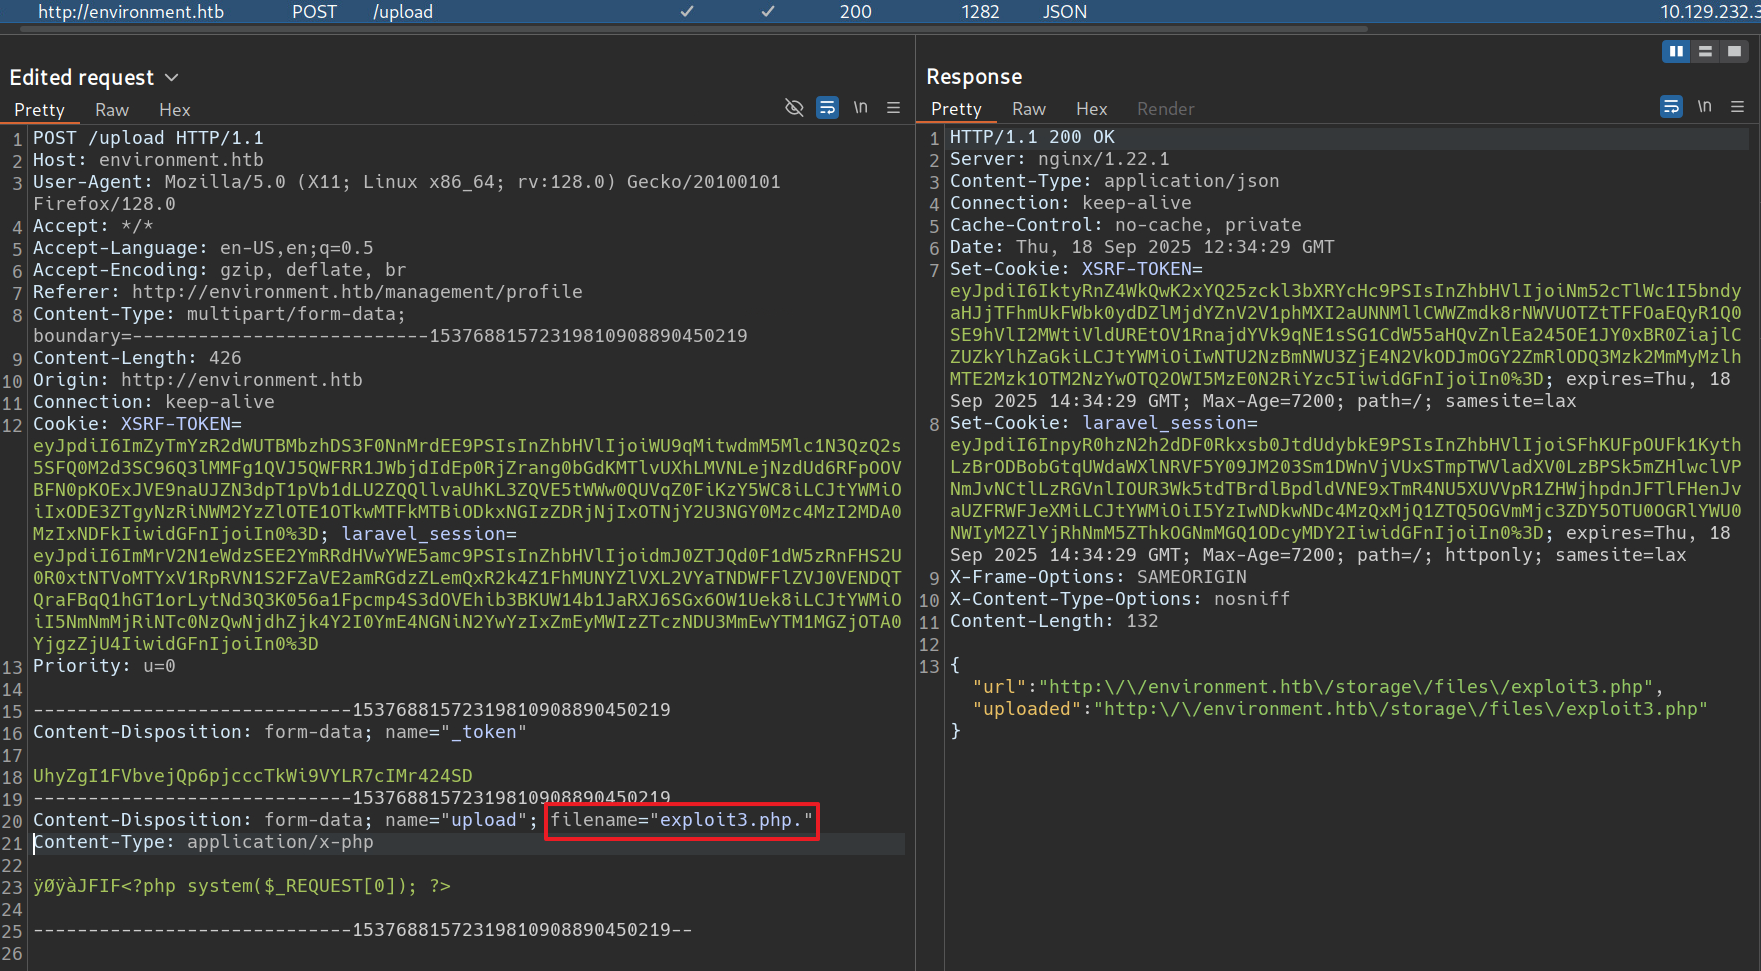
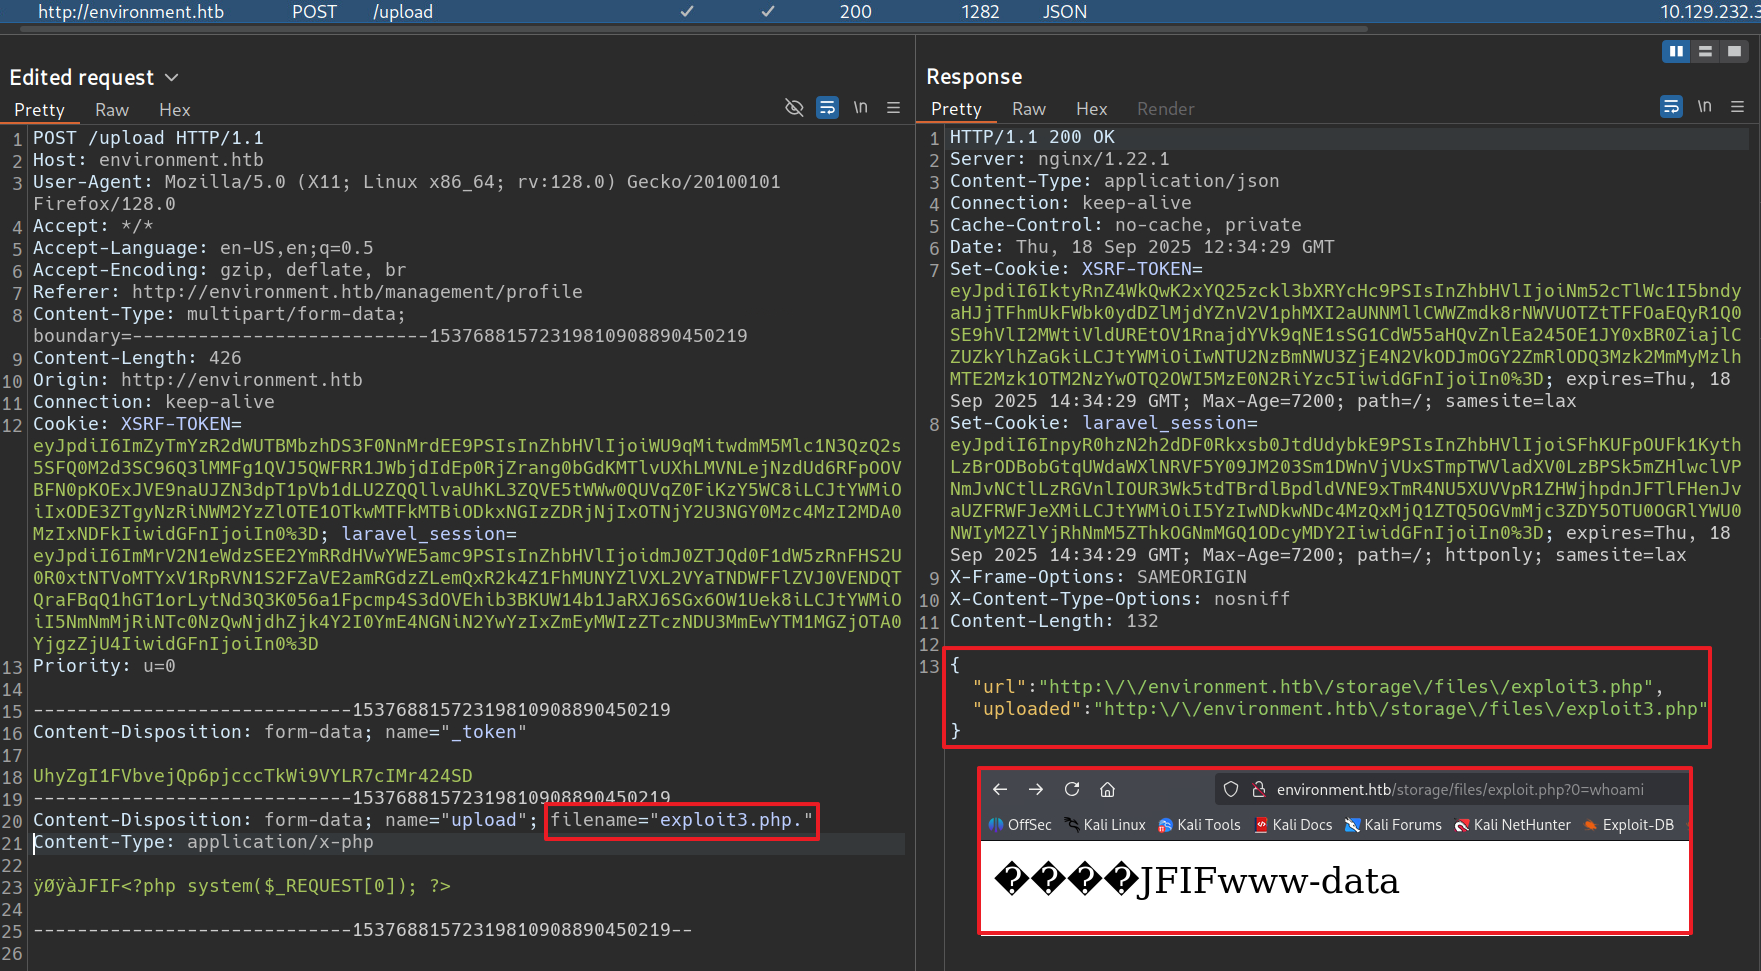
feat(blog): modify post

Changed region(s): [[0.5309, 0.7415, 0.9682, 0.9887], [0.5309, 0.6488, 0.9682, 0.6797]]

diff --git a/_posts/2025-09-18-55.md b/_posts/2025-09-18-55.md
@@ -96,7 +96,7 @@ Nmap done: 1 IP address (1 host up) scanned in 211.93 seconds
 
 <br>
 
-- [1] `/mailing` 경로로 접근을 시도했을 때 서버에서는 오류(에러)에 대한 상세정보를 반환했다. 이 과정에서 획득한 정보(소스코드)를 분석하여 공격 벡터를 탐색한다.
+- [1] `/mailing` 경로로 접근을 시도했을 때 서버에서는 오류(에러)에 대한 상세정보를 반환했다.  
 - [2] `/login` 경로에서 로그인 입력폼을 채운 후 서버로 전송되는 패킷을 분석한다.  
 
 <img src='assets/post/2025/Playground/Hack The Box/Environment/3.png' width=1200 alt=''>
@@ -111,7 +111,6 @@ Nmap done: 1 IP address (1 host up) scanned in 211.93 seconds
 <br>
 
 - [4] 서버에서 500 상태코드가 반환되면 에러에 대한 상세정보가 응답값에 함께 반환됐다.  
-  - `$keep_loggedin` 값이 `False`가 아니므로 그 아래 코드가 실행된다.
   - `if(App::environment() == "preprod")` 환경변수 값이 "preprod"인 경우에는
   - 로그인을 시도하는 계정에 대한 세션을 만들고 `/management/dashboard` 페이지로 리다이렉트 시킨다.
 
@@ -136,17 +135,16 @@ Nmap done: 1 IP address (1 host up) scanned in 211.93 seconds
 
 - 관리자 페이지에는 사용자의 프로필 이미지 업로드 기능이 존재했다.  
 - .php 확장자 파일 업로드 시 `Invalid file detected` 오류 메시지를 반환하였으며 jpg 파일은 정상적으로 업로드가 가능했다. Laravel은 PHP 언어 기반의 프레임워크이므로 PHP 확장자 검증을 우회하여 파일 업로드가 가능한지 테스트가 필요하다.  
-- php 확장자와 동일한 기능으로 동작하는 확장자는 대표적으로 .php, .phtml, .php3, .php4, .php5, .php7, .phps 가 있다.  
 
 <img src='assets/post/2025/Playground/Hack The Box/Environment/9.png' width=1200 alt=''>
 <img src='assets/post/2025/Playground/Hack The Box/Environment/10.png' width=1200 alt=''>
 
 <br>
 
-- 확장자 변조 시 php 파일 업로드 가능함을 확인했다.
+- 확장자를 변조 시 php 파일 업로드가 가능했다. (.php -> php.)
 
 <img src='assets/post/2025/Playground/Hack The Box/Environment/11.png' width=1200 alt=''>
-<img src='assets/post/2025/Playground/Hack The Box/Environment/12.png' width=1200 alt=''>
+<img src='assets/post/2025/Playground/Hack The Box/Environment/13.png' width=1200 alt=''>
 
 <br>
 
@@ -157,7 +155,7 @@ Nmap done: 1 IP address (1 host up) scanned in 211.93 seconds
 JFIF<?php system($_REQUEST[0]); ?>
 ```
 
-<img src='assets/post/2025/Playground/Hack The Box/Environment/13.png' width=1200 alt=''>
+<img src='assets/post/2025/Playground/Hack The Box/Environment/12.png' width=1200 alt=''>
 
 <br>
 
@@ -178,7 +176,6 @@ JFIF<?php system($_REQUEST[0]); ?>
 ## POST EXPLOIT
 
 - `/home/hish/backup` 경로에는 .gpg 파일이 존재하는데 GPG 파일은 GNU Privacy Guard (GnuPG)라는 도구를 사용하여 암호화하거나 디지털 서명한 파일을 말한다. 해당 파일에는 중요정보가 저장되어 있을 수 있기 때문에 가능하다면 복호화하여 확인 작업이 필요하다.  
-- GPG 파일은 대칭키/비대칭키 암호화 2가지 방식으로 암호화가 가능하며 대상 호스트에 저장된 파일은 RSA 비대칭키 알고리즘이 적용된 파일이었다.  
 
 ```zsh
 ls -l
@@ -204,7 +201,7 @@ file ../backup/keyvault.gpg
 
 <br>
 
-- gpg 파일 복호화를 위해서는 `.gnupg` 폴더에 대해 권한이 사용자에게 제한되어 있어야한다.  
+- gpg 파일 복호화를 위해서는 `.gnupg` 폴더에 대해 권한이 소유자에게 제한되어 있어야한다.  
 - 따라서, `tmp` 경로로 해당 폴더를 이동한 후 폴더 권한을 변경한다.  
 - 이후 `/.gnupg`의 비밀키로 `keyvault.gpg` 파일을 복호화한다.  
   - `ENVIRONMENT.HTB`에 대한 패스워드(?) 정보가 추출되었다.  
@@ -232,10 +229,13 @@ chmod -R 700 /home/hish
 
 <br>
 
+---
+
 ## PRIVILEGE ESCALATION
 
-- 추가로 SUDO 권한으로 실행 가능한 바이너리가 존재하였다. (/usr/bin/systeminfo)  
-- `env_keep+="ENV BASH_ENV"` 부분에 의해 BASH_ENV 환경변수가 초기화되지 않고 유지된다. BASH_ENV 값에 임의의 악성 페이로드가 저장된 파일 값을 삽입하고 루트 권한으로 `systeminfo` 바이너리를 실행하면 악성 페이로드가 실행되고 루트 권한 획득이 가능하다.
+- `sudo -l` : SUDO 권한으로 실행 가능한 바이너리가 존재했다. (/usr/bin/systeminfo)  
+- `env_keep+="ENV BASH_ENV"` 부분에 의해 BASH_ENV 환경변수가 초기화되지 않고 유지된다.  
+- BASH_ENV 값에 임의의 악성 페이로드가 저장된 파일 경로를 저장하고 루트 권한으로 `systeminfo` 바이너리를 실행하면 악성 페이로드가 실행되며 루트 권한의 쉘을 획득할 수 있다.
 
 ```zsh
 hish@environment:/tmp$ sudo -l
@@ -252,6 +252,7 @@ User hish may run the following commands on environment:
 <br>
 
 <img src='assets/post/2025/Playground/Hack The Box/Environment/18.png' width=1200 alt=''>
+
 <br>
 
 ---
